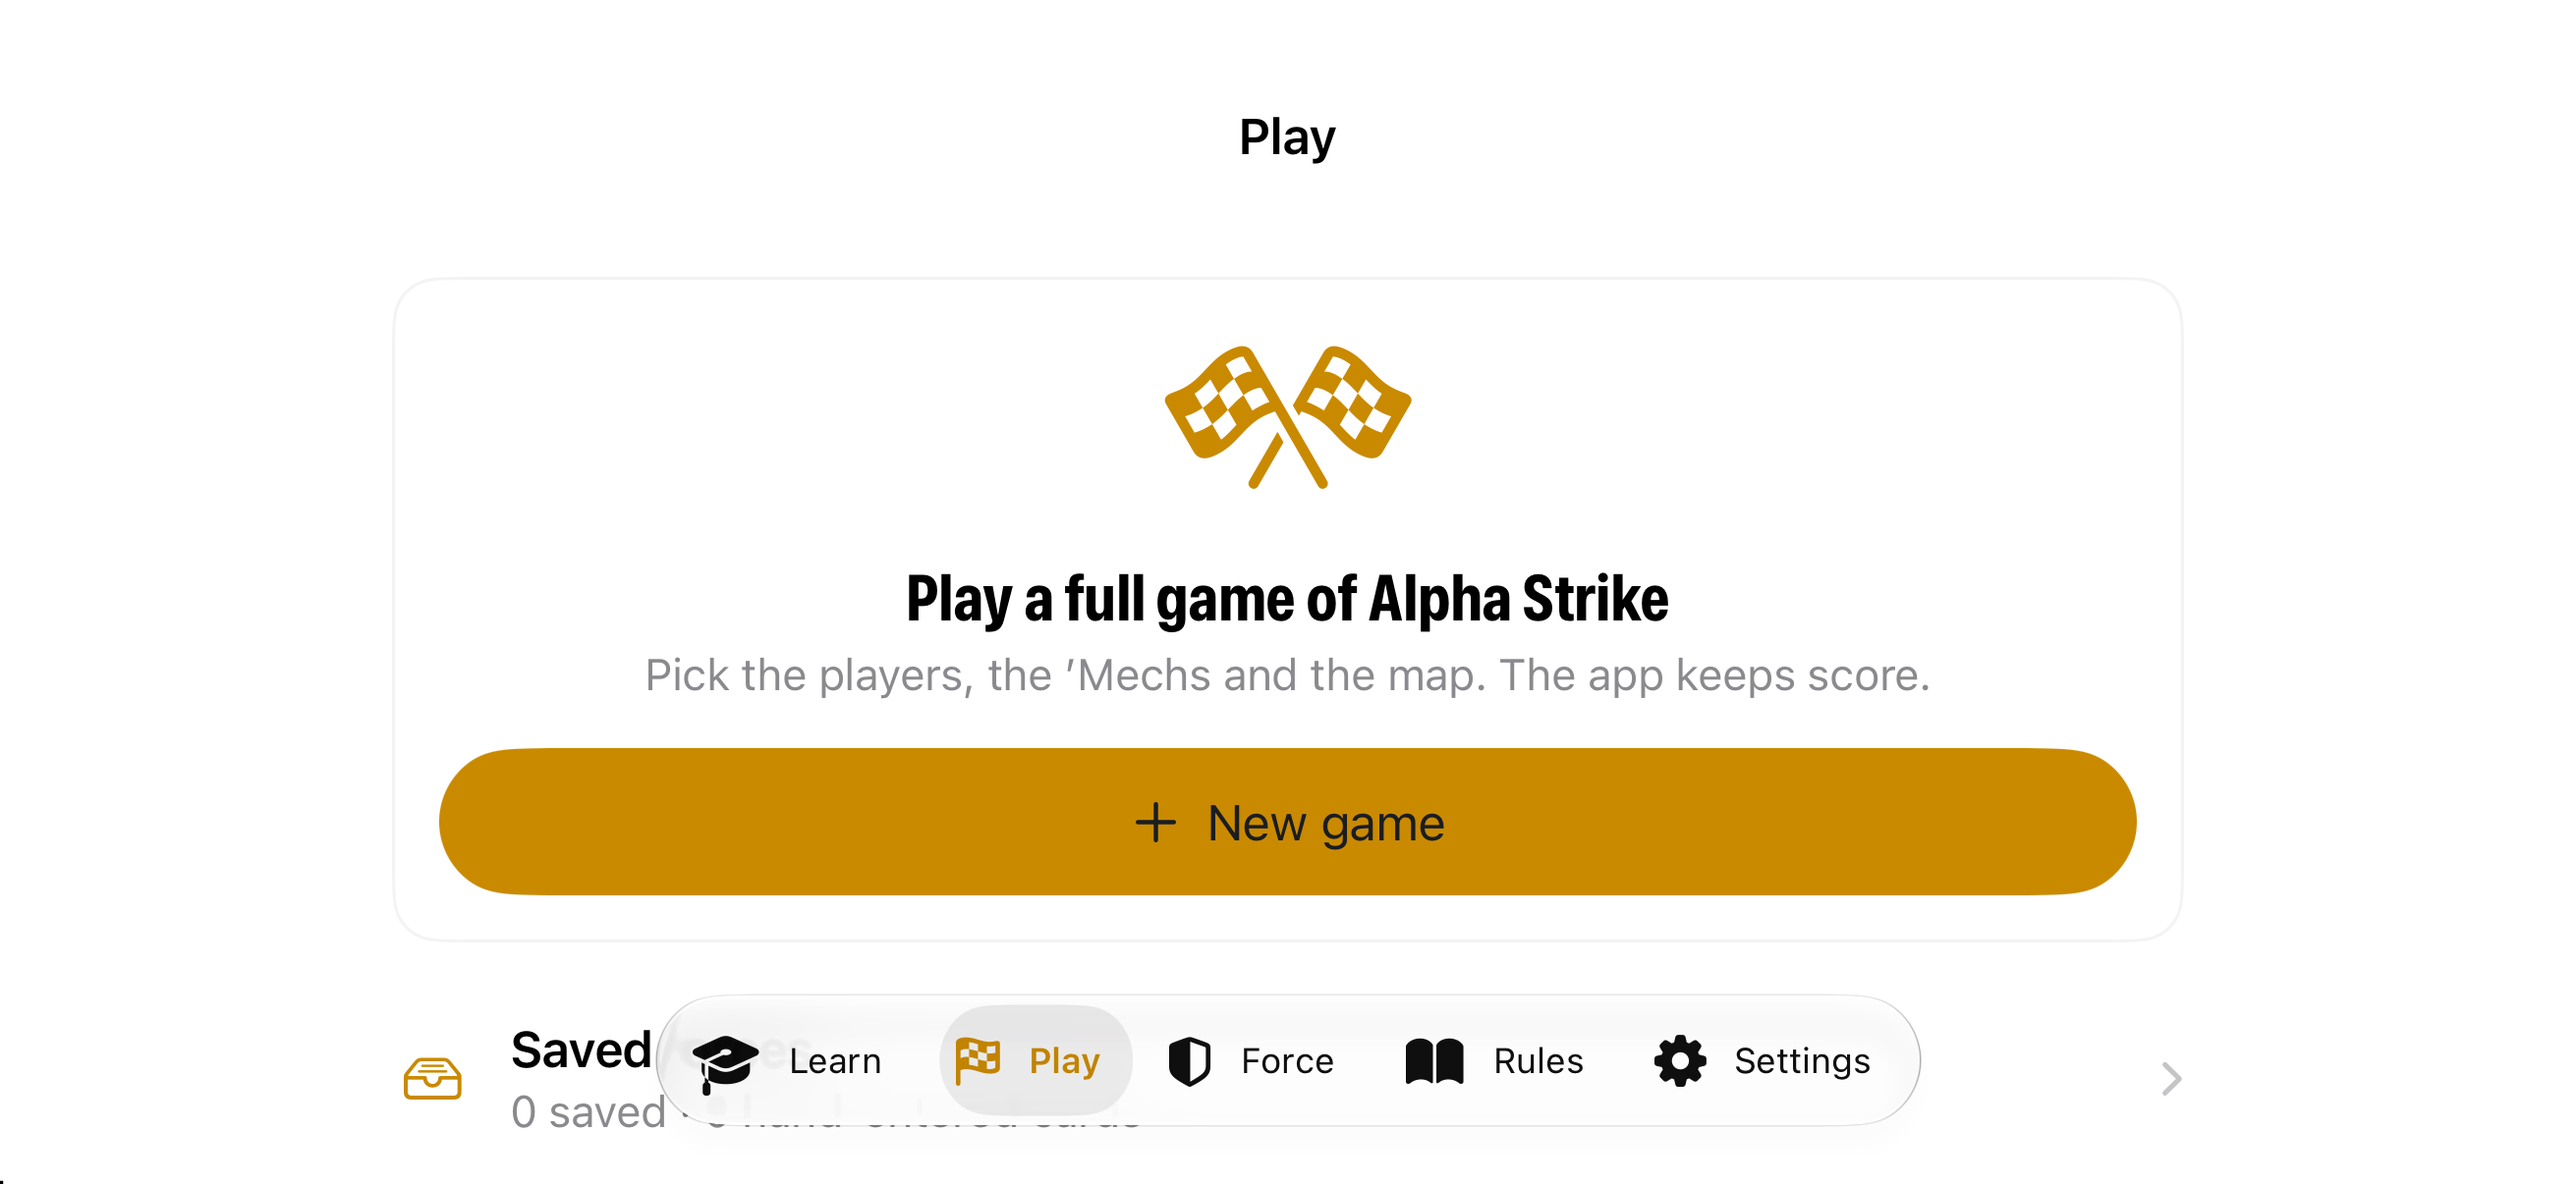
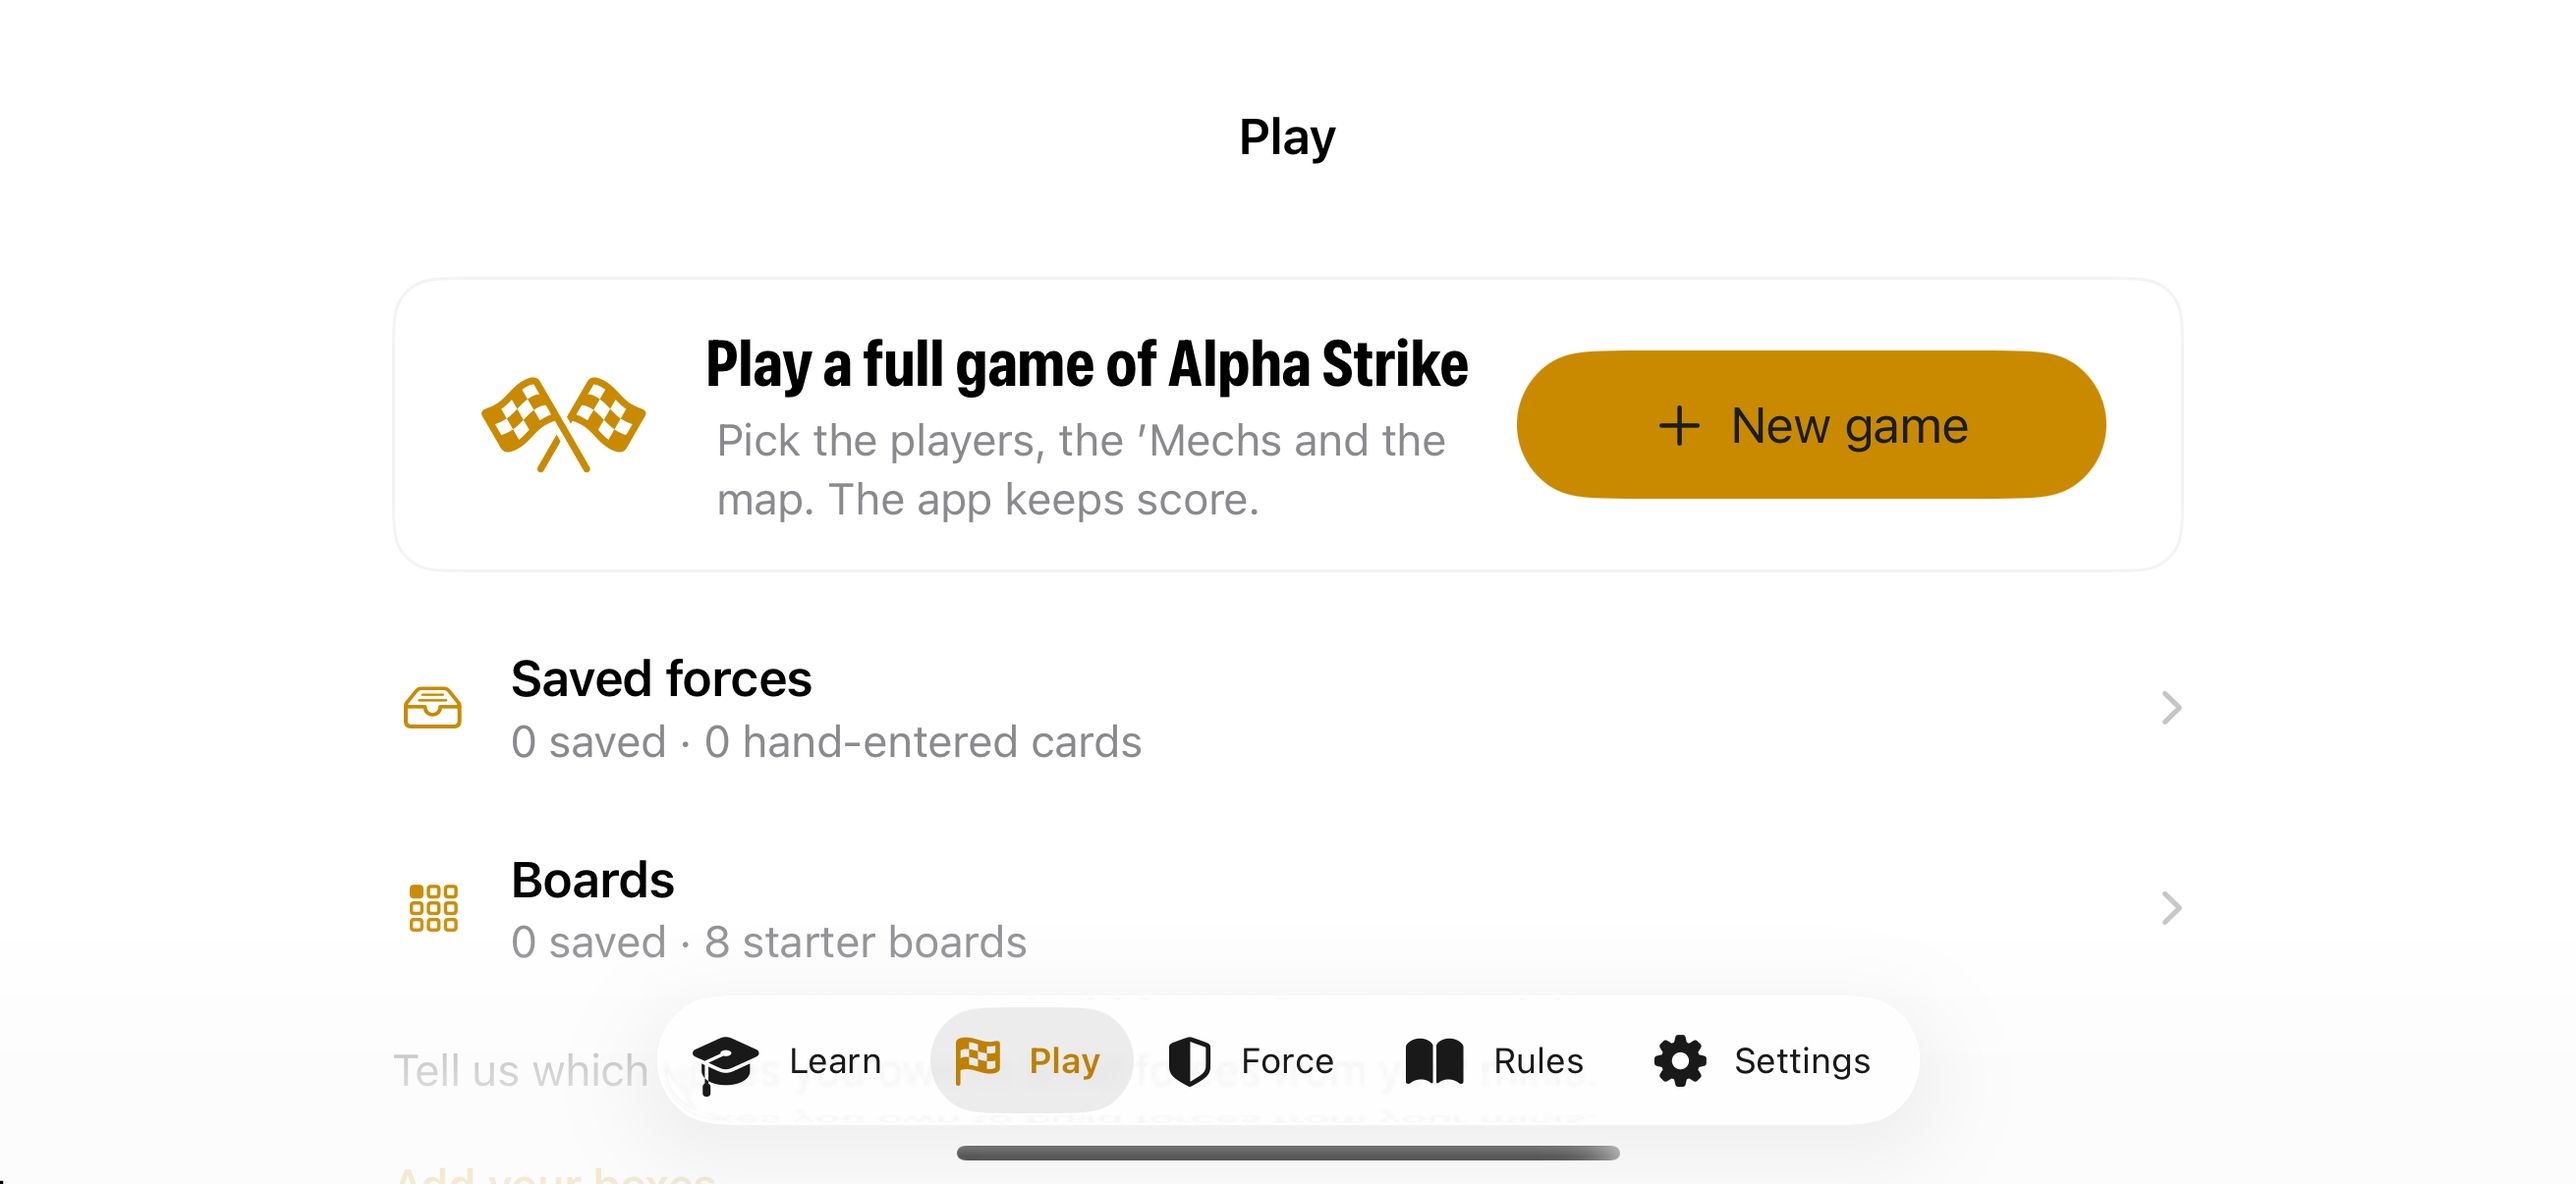
Play home: compact hero row in landscape

diff --git a/Features/PlayMode/PlayModeHomeView.swift b/Features/PlayMode/PlayModeHomeView.swift
@@ -8,6 +8,7 @@ struct PlayModeHomeView: View {
     @Environment(PlayMatchCoordinator.self) private var matches
     @Environment(\.horizontalSizeClass) private var horizontalSizeClass
     @Environment(\.dynamicTypeSize) private var dynamicTypeSize
+    @Environment(\.verticalSizeClass) private var verticalSizeClass
 
     @State private var editingCollection = false
     @State private var route: PlaySetupRoute?
@@ -170,30 +171,44 @@ struct PlayModeHomeView: View {
 
     /// First visit (§ 4): what Play is, and New game.
     private var hero: some View {
-        TMCard {
-            VStack(spacing: TMSpace.lg) {
-                Image(systemName: "flag.checkered.2.crossed")
-                    .font(.system(size: 48))
-                    .foregroundStyle(TMColor.signal)
-                    .accessibilityHidden(true)
-                VStack(spacing: TMSpace.xs) {
-                    Text("Play a full game of Alpha Strike")
-                        .font(TMFont.stepTitle)
-                        .multilineTextAlignment(.center)
-                        .accessibilityAddTraits(.isHeader)
-                    Text("Pick the players, the ’Mechs and the map. The app keeps score.")
-                        .font(TMFont.detail)
-                        .foregroundStyle(.secondary)
-                        .multilineTextAlignment(.center)
+        let compact = verticalSizeClass == .compact && !dynamicTypeSize.isAccessibilitySize
+        let icon = Image(systemName: "flag.checkered.2.crossed")
+            .font(.system(size: compact ? 32 : 48))
+            .foregroundStyle(TMColor.signal)
+            .accessibilityHidden(true)
+        let copy = VStack(spacing: TMSpace.xs) {
+            Text("Play a full game of Alpha Strike")
+                .font(TMFont.stepTitle)
+                .multilineTextAlignment(compact ? .leading : .center)
+                .accessibilityAddTraits(.isHeader)
+            Text("Pick the players, the ’Mechs and the map. The app keeps score.")
+                .font(TMFont.detail)
+                .foregroundStyle(.secondary)
+                .multilineTextAlignment(compact ? .leading : .center)
+        }
+        .fixedSize(horizontal: false, vertical: true)
+        let button = PrimaryActionButton(
+            title: "New game",
+            systemImage: "plus",
+            tint: TMColor.signal,
+            accessibilityIdentifier: "as.play.new",
+            action: startNewGame
+        )
+        return TMCard {
+            Group {
+                if compact {
+                    HStack(spacing: TMSpace.lg) {
+                        icon
+                        copy
+                        button.frame(maxWidth: 200)
+                    }
+                } else {
+                    VStack(spacing: TMSpace.lg) {
+                        icon
+                        copy
+                        button
+                    }
                 }
-                .fixedSize(horizontal: false, vertical: true)
-                PrimaryActionButton(
-                    title: "New game",
-                    systemImage: "plus",
-                    tint: TMColor.signal,
-                    accessibilityIdentifier: "as.play.new",
-                    action: startNewGame
-                )
             }
             .frame(maxWidth: .infinity)
         }
